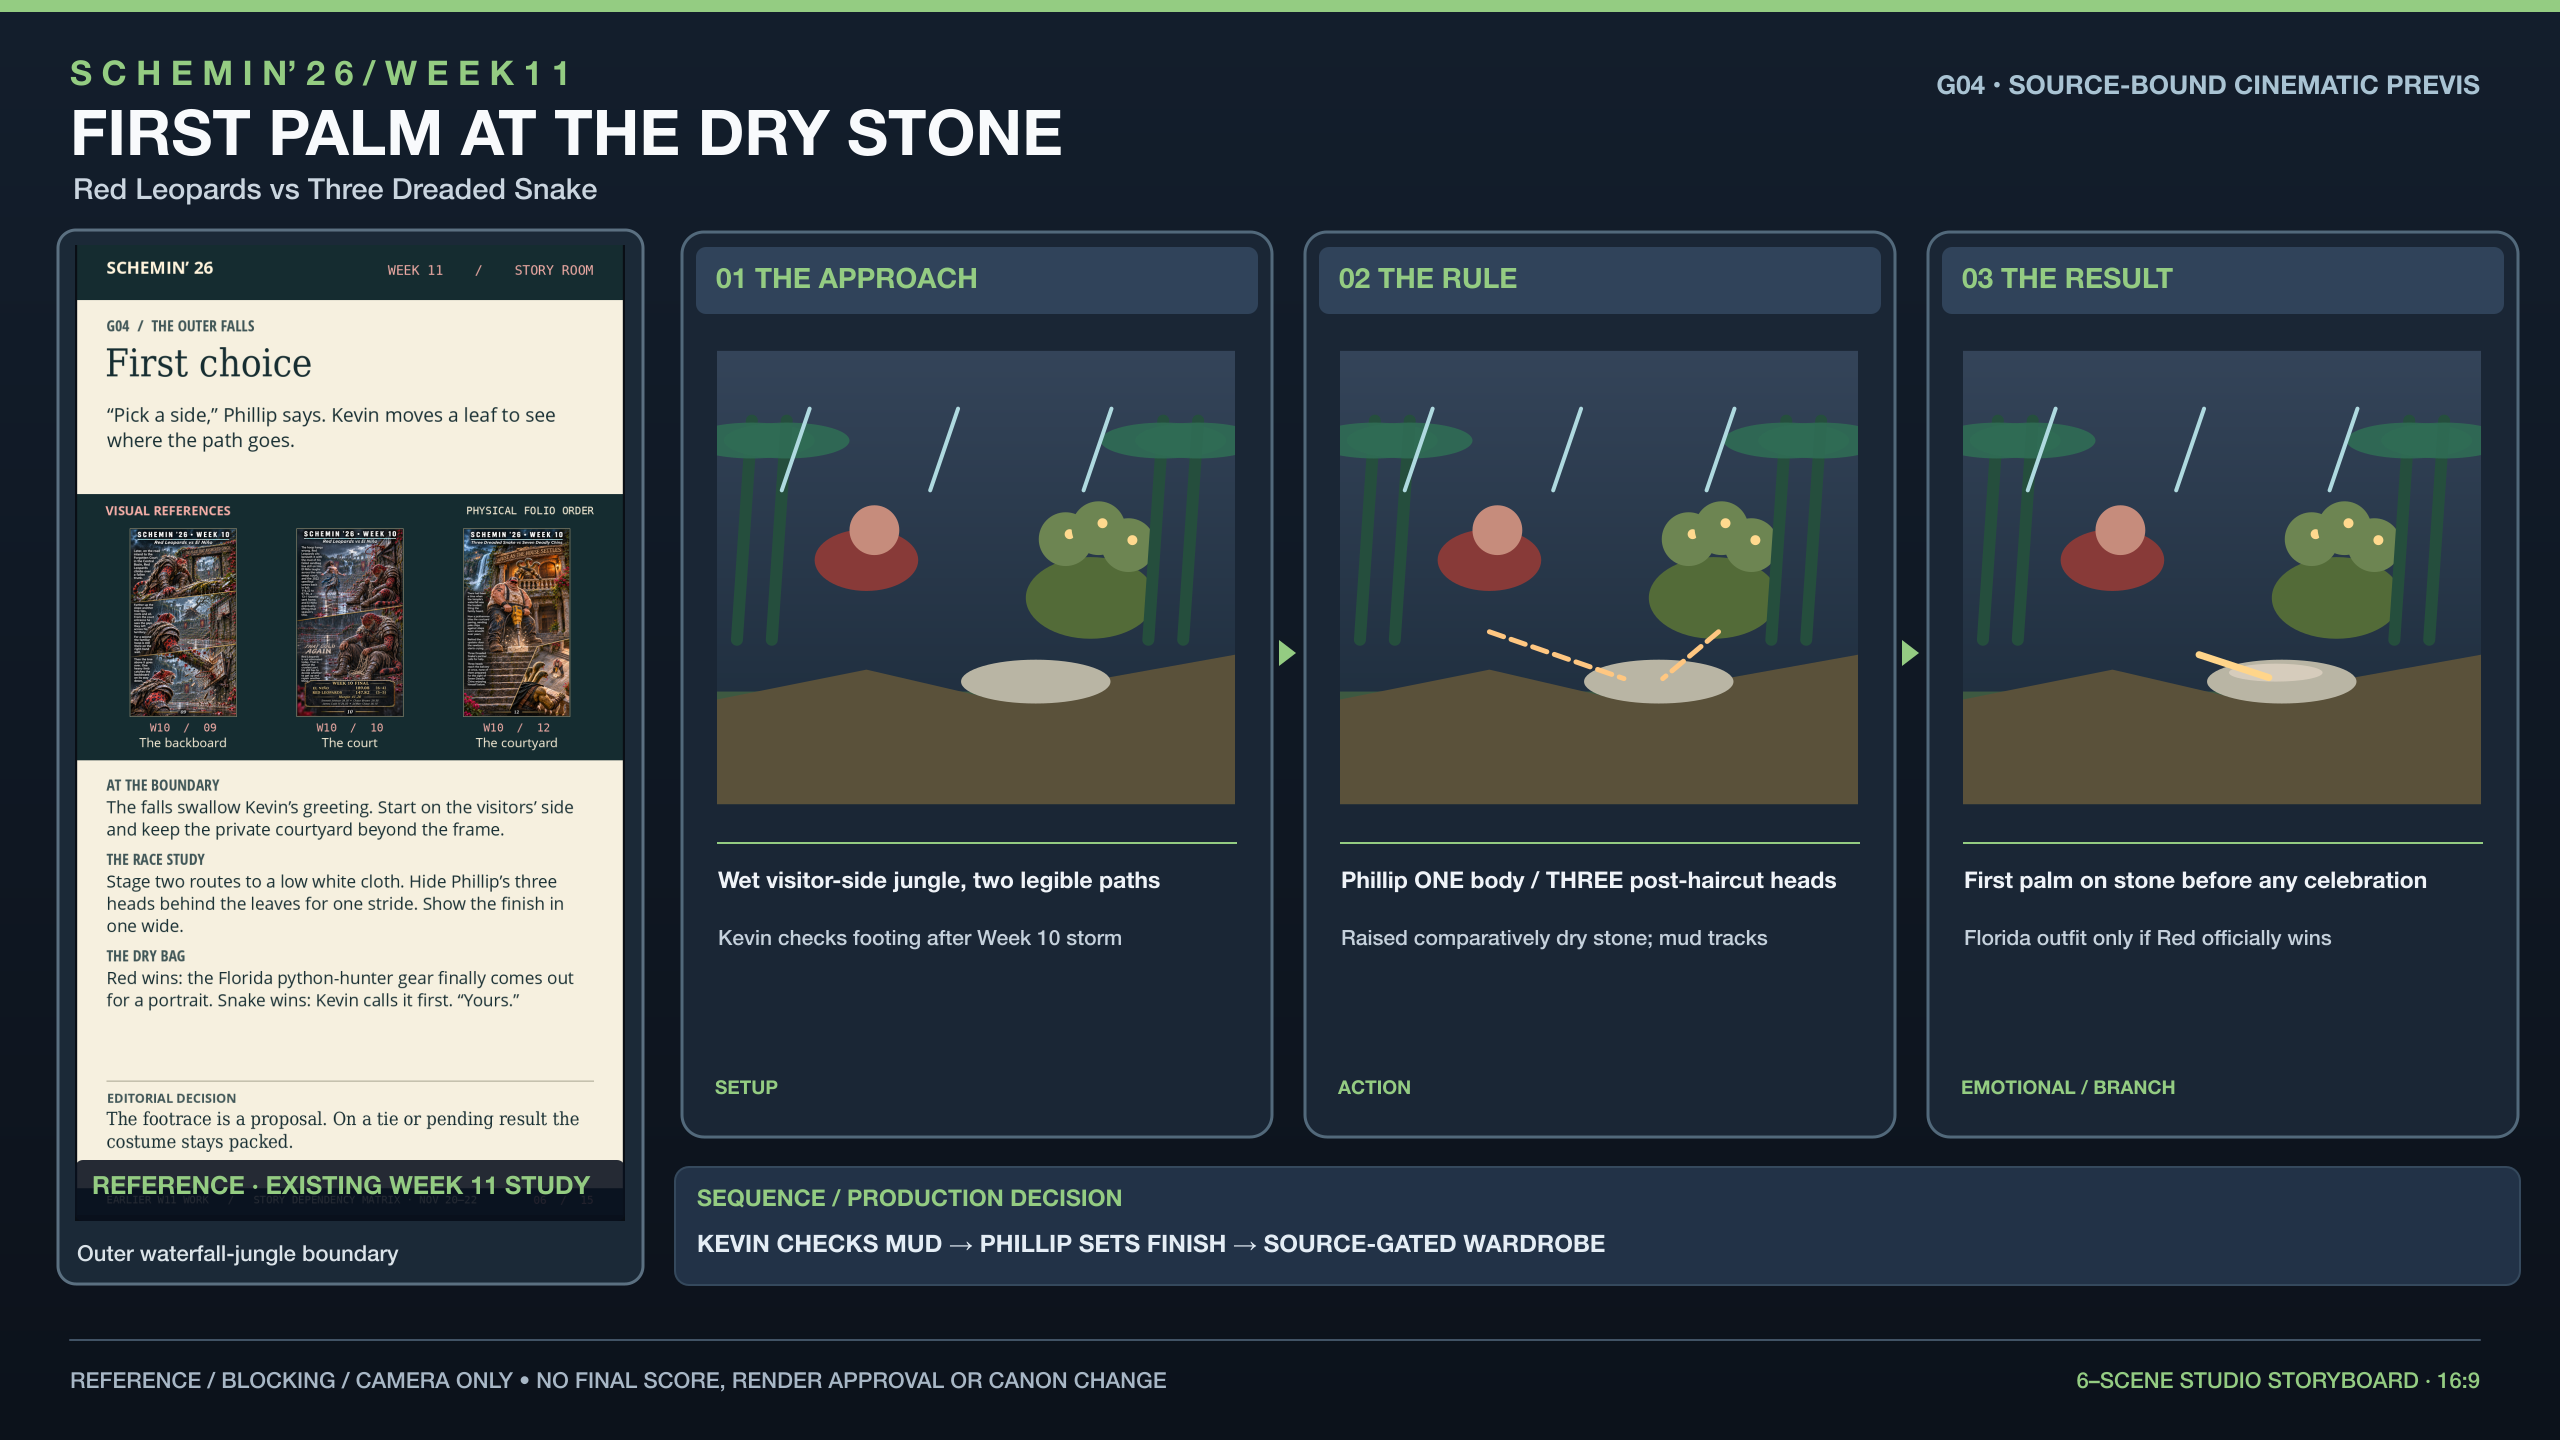
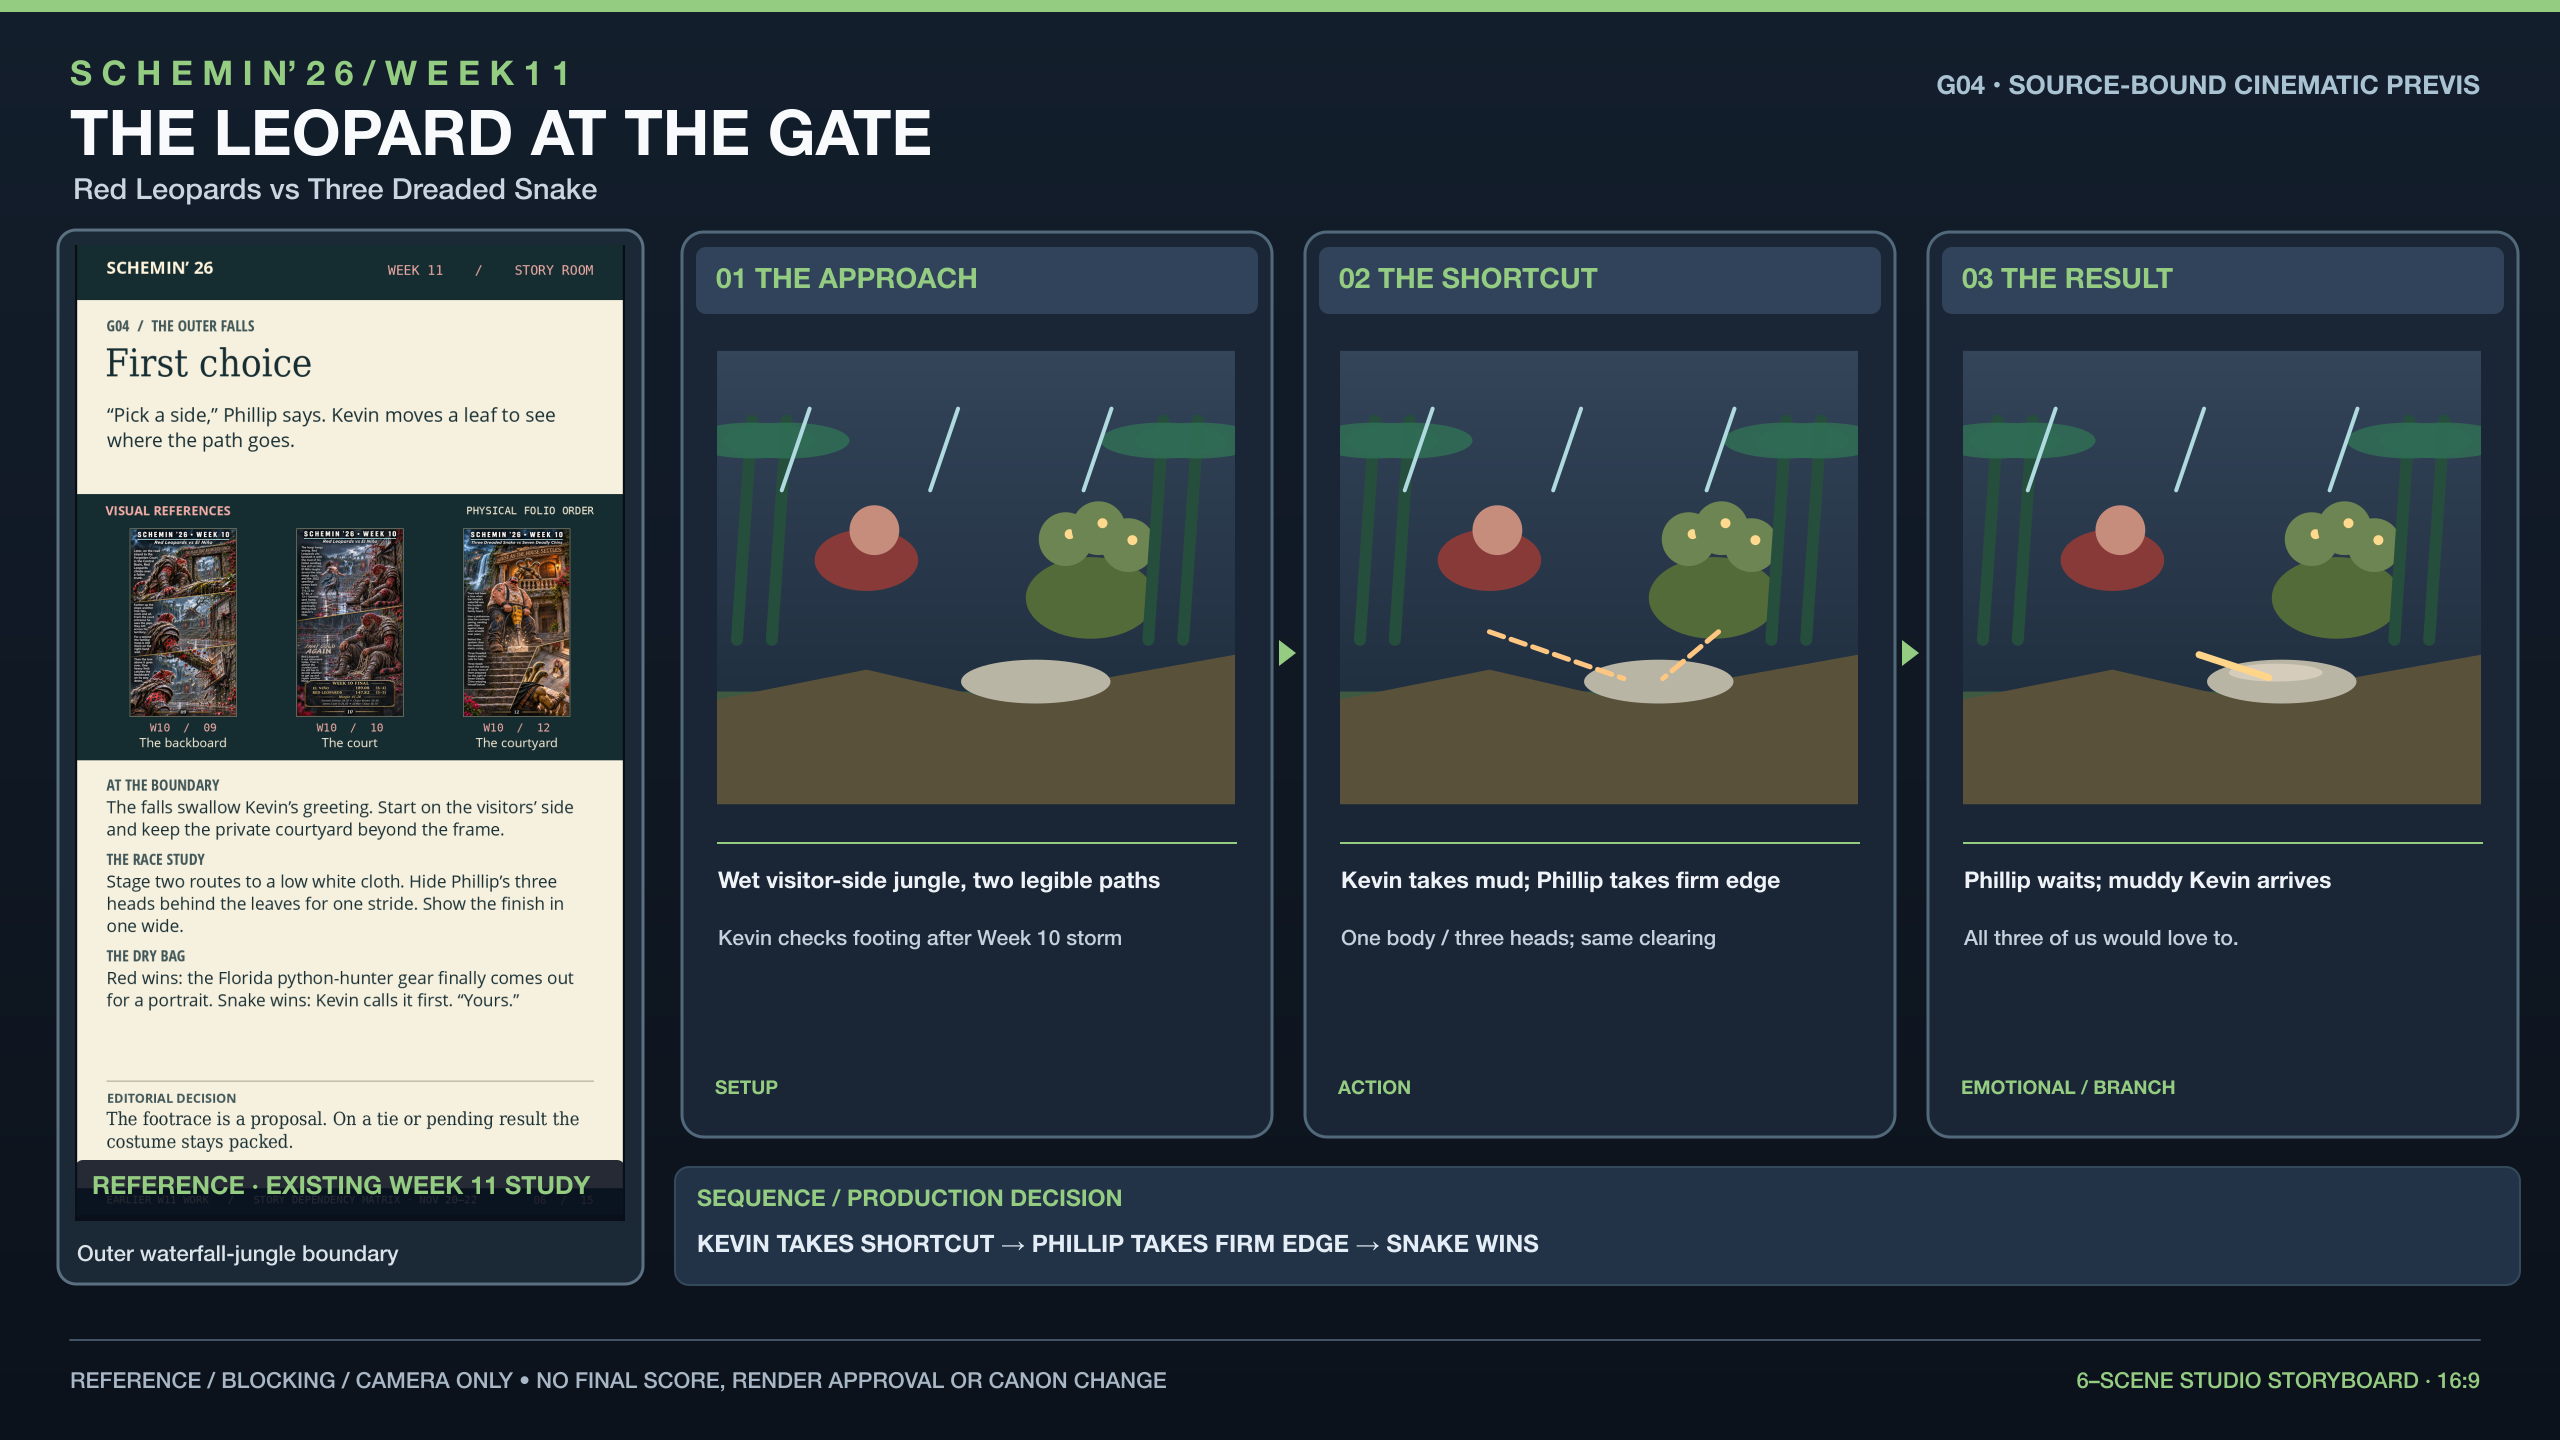
fix(w11): regenerate G04 storyboard for selected terrain rivalry

diff --git a/memo-os/week-11/preproduction/visual-previs/render_storyboards.py b/memo-os/week-11/preproduction/visual-previs/render_storyboards.py
@@ -11,7 +11,7 @@ stories={
 'G01':{'title':'THE CROSSING OWES A WORKER','subtitle':"His Majesty’s Blood vs D0nkey K0ng",'img':'03-after-you-austin.png','name':'Mountain Lake Bridge','cue':'CARTER RIGHT OF WAY → SLICK FOOTING → LIVING SURVIVOR','shots':[('THE COURTESY','Cart and four hooves | public lane','Full bridge • show the waiting worker'),('THE ANSWER','Austin sees worker | belt and hoof slip','Same wind in cloak, leaves and canvas'),('THE PRICE','Only verified loser falls, resurfacing alive','Lake chop — NEVER invent river rapids')],'accent':'#f5b769'},
 'G02':{'title':'THE PROMISE LOSES ITS FOOTING','subtitle':'El Niño vs Slob on my Dobb','img':'04-six-i-told-her-six.png','name':'Hearthroad / possible wetland approach','cue':'SIX O’CLOCK → SECONDARY LASH FAILS → JORDAN BRAKES','shots':[('THE PROMISE','Manning at truck window | delivery slip SIX','Same Week 10 trailer; no time teleport'),('THE GUST','TWO steel kegs fall off, remaining beer secure','Primary straps intact; gravity rules'),('THE DECISION','Jordan brakes, radios and checks safe shoulder','Wetland truck clearance remains HOLD')],'accent':'#4ec9d8'},
 'G03':{'title':'THE CROWD CHANGES SIDES','subtitle':'The Chili Cheesers vs ObiWan Jacoby','img':'05-the-safest-seat.png','name':'Foot of the Eastern Ascent','cue':'OFF BOARD → ONE ACCURATE THROW → CHILI-COVERED LADDER','shots':[('THE AUDIENCE','Wet OFF BOARD notice, recovered black hat','Both owners angry at being overlooked'),('THE THROW','Brandon hits target ONCE despite upland rain','Jake submerged in thick Wolf Brand Chili'),('THE AFTERMATH','Jake face to BOTH boots, Brandon at ladder','Rain stays outside tank; score coda HOLD')],'accent':'#e8878b'},
-'G04':{'title':'FIRST PALM AT THE DRY STONE','subtitle':'Red Leopards vs Three Dreaded Snake','img':'06-first-choice.png','name':'Outer waterfall-jungle boundary','cue':'KEVIN CHECKS MUD → PHILLIP SETS FINISH → SOURCE-GATED WARDROBE','shots':[('THE APPROACH','Wet visitor-side jungle, two legible paths','Kevin checks footing after Week 10 storm'),('THE RULE','Phillip ONE body / THREE post-haircut heads','Raised comparatively dry stone; mud tracks'),('THE RESULT','First palm on stone before any celebration','Florida outfit only if Red officially wins')],'accent':'#94cc82'},
+'G04':{'title':'THE LEOPARD AT THE GATE','subtitle':'Red Leopards vs Three Dreaded Snake','img':'06-first-choice.png','name':'Outer waterfall-jungle boundary','cue':'KEVIN TAKES SHORTCUT → PHILLIP TAKES FIRM EDGE → SNAKE WINS','shots':[('THE APPROACH','Wet visitor-side jungle, two legible paths','Kevin checks footing after Week 10 storm'),('THE SHORTCUT','Kevin takes mud; Phillip takes firm edge','One body / three heads; same clearing'),('THE RESULT','Phillip waits; muddy Kevin arrives','All three of us would love to.')],'accent':'#94cc82'},
 'G05':{'title':'THE ROAD THAT COMES BACK','subtitle':'Seven Deadly Chins vs Mud Dogs','img':'07-the-dry-paw.png','name':'Gators & Dawgs swamp sign','cue':'HIGH FLOODLINE → BOBBY LIES → BEN RECOGNIZES THE LOOP','shots':[('THE LANDMARK','Submerged rut; sign; empty stands LEFT','Bobby dry paw and Cancún card RIGHT'),('THE LIE','Bobby deliberately sends Ben into flooded ruts','Safe raised lip survives; no island road'),('THE REALIZATION','Ben returns to same sign / Bobby smirks','Losers Beach is fear, not verified arrival')],'accent':'#b9a977'},
 'G06':{'title':'THE SECOND SHEET','subtitle':'The LLC vs Dr. Duckhook','img':'08-stay-for-coffee.png','name':'Country Club of Jackson • executive office','cue':'INVESTOR CONFIDENCE → BOARD ACTION → DAVID FURIOUS','shots':[('THE OFFER','Wet key returned | first paper unsigned','OUTSIDE storm, INSIDE dry and intact'),('THE NOTICE','Duckhook quietly spoke with LLC board','David removed CEO, Zach CEO AND chairman'),('THE FURY','Babb rises, pen hits desk; Zach steady','Babb keeps fantasy team; coffee is score-only')],'accent':'#aaa4e2'}
 }
@@ -140,5 +140,5 @@ for g,s in stories.items():
  if output.stat().st_size<50000:raise RuntimeError(str(output)+' unusually small')
  files.append({'scene':g,'file':str(output.relative_to(root)),'bytes':output.stat().st_size,'study_source':s['img'],'shots':[x[0] for x in s['shots']],'state':'CAMERA_PREVIS_ONLY'})
  print('CREATED',output.name,output.stat().st_size,flush=True)
-(out/'W11_SIX_SCENE_PREVIS_MANIFEST.json').write_text(json.dumps({'schema':'schemin.w11.production_storyboard.v1','style':'16:9 studio shot-previs (not native 1080x1920 final folio)','sources':'Week11 original native studies and 35-folio spec','medium':'6 PNG storyboard sheets rendered from editable SVG generator; no fiction results decided','boards':files},indent=2)+'\n')
+(out/'W11_SIX_SCENE_PREVIS_MANIFEST.json').write_text(json.dumps({'schema':'schemin.w11.production_storyboard.v1','style':'16:9 studio shot-previs (not native 1080x1920 final folio)','sources':'Week11 original native studies and 35-folio spec','medium':'6 PNG storyboard sheets rendered from editable SVG generator; symbolic staging; G04 revised after ESPN final','boards':files},indent=2)+'\n')
 print('DONE',len(files),'total_MB',round(sum(x['bytes'] for x in files)/1024/1024,2),flush=True)
